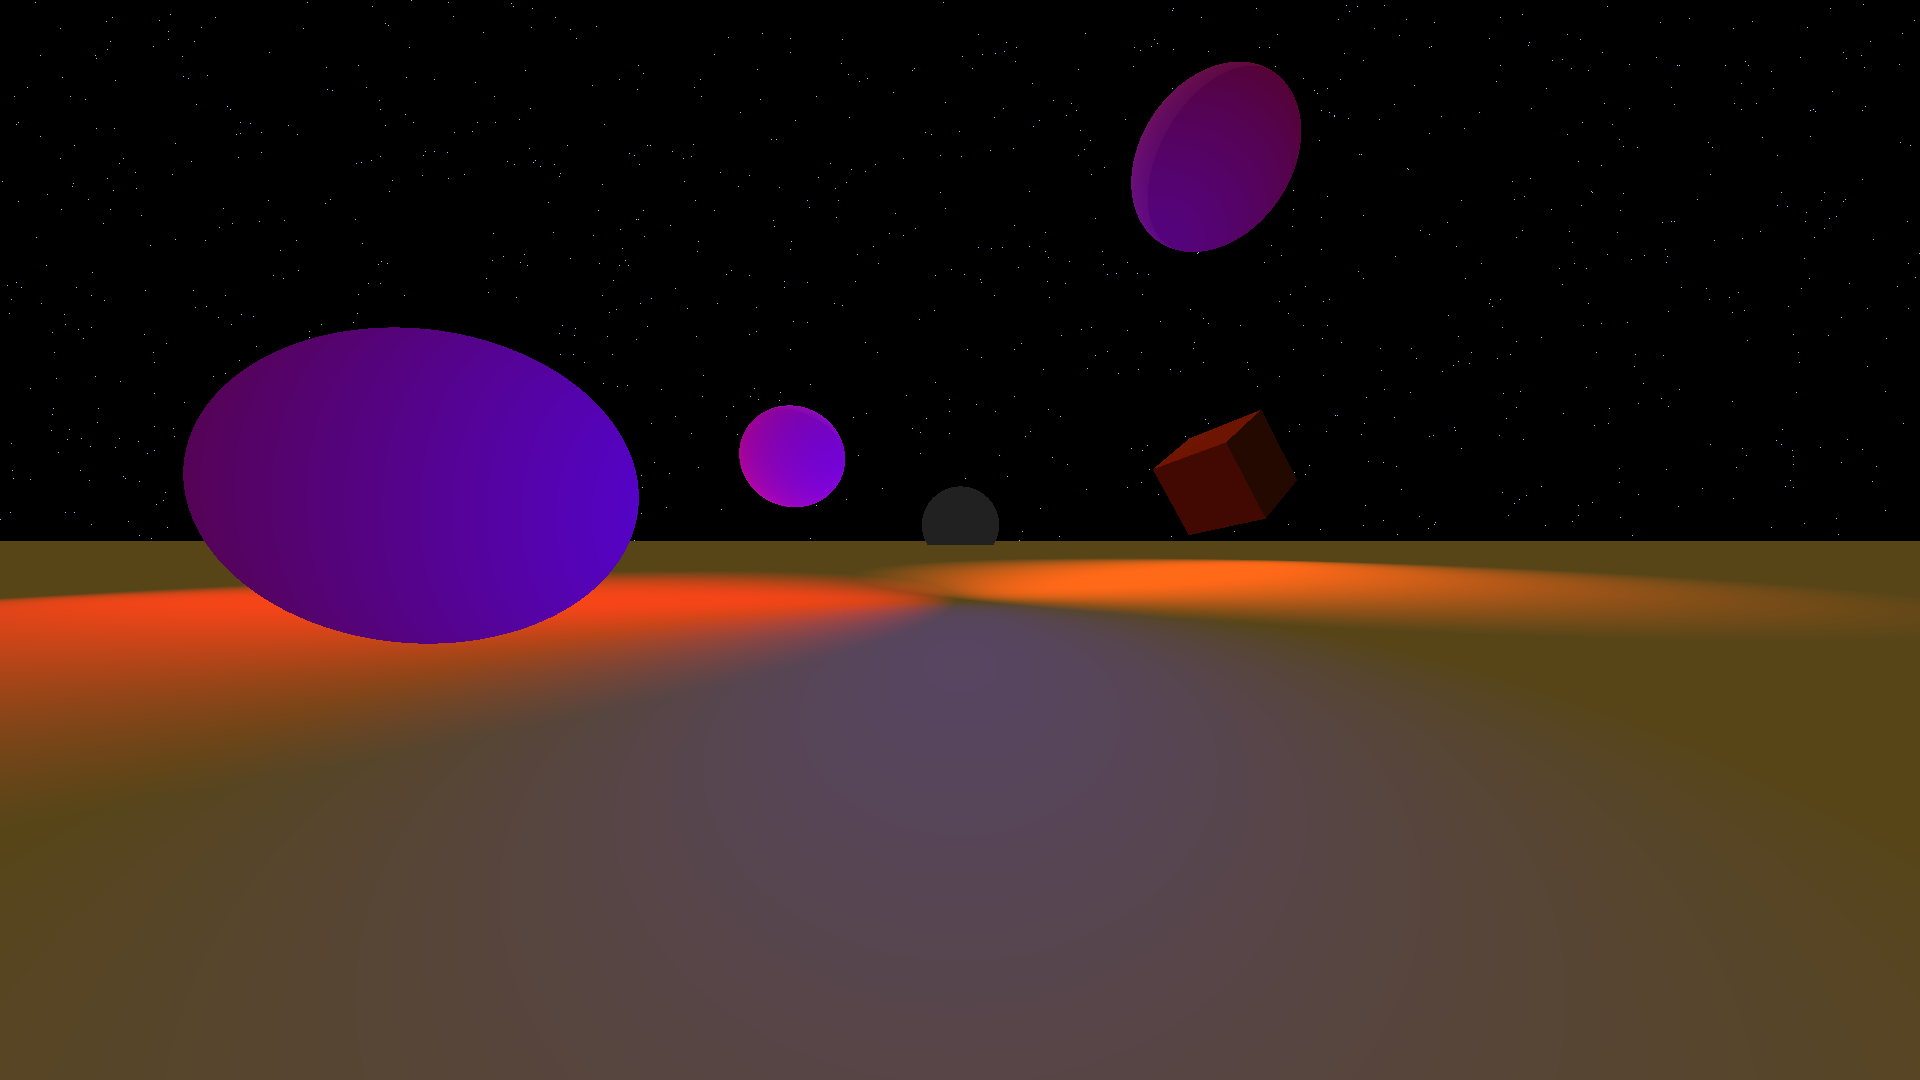
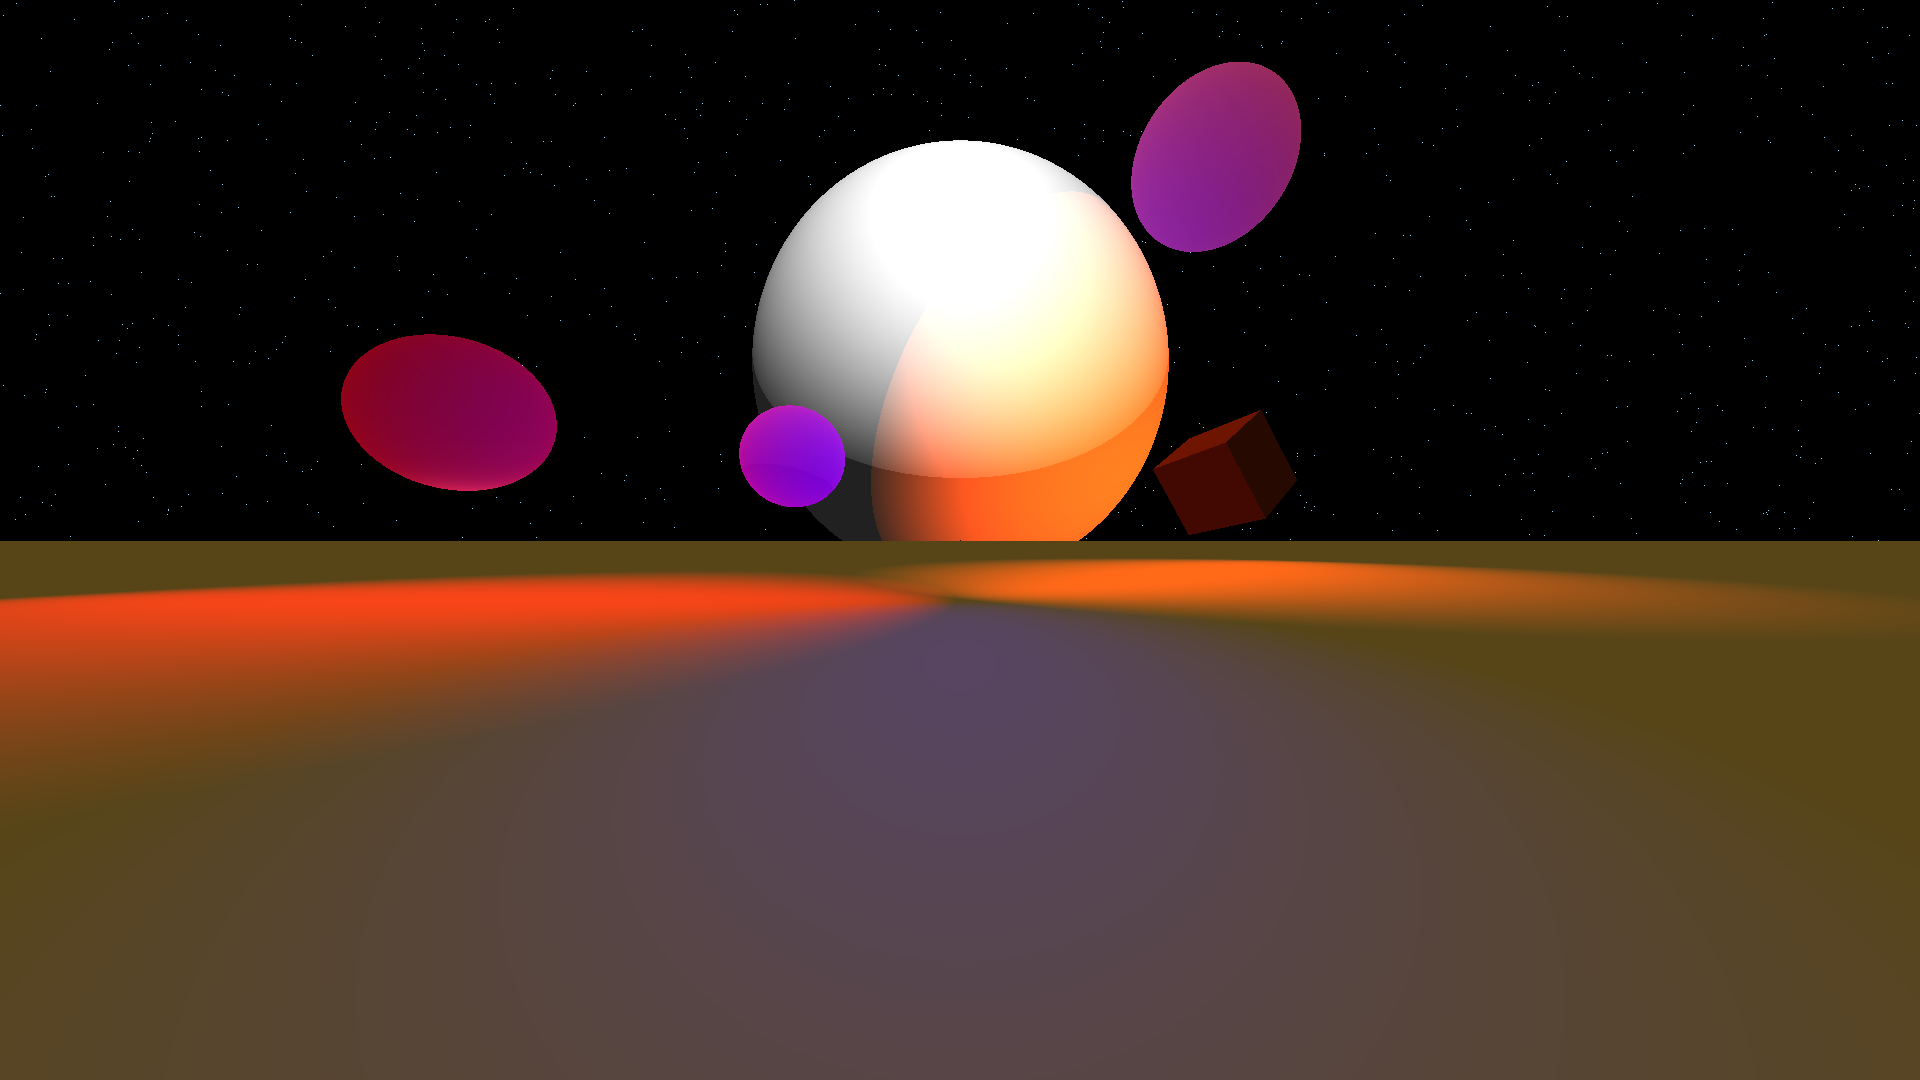
Fixed transformation

Changed region(s): [[0.375, 0.0611, 0.6875, 0.5194], [0.0938, 0.3056, 0.3438, 0.6111]]

diff --git a/src/main/Renderer.java b/src/main/Renderer.java
@@ -70,8 +70,12 @@ public class Renderer {
                 //Vector dir = new Vector(-focallength, w * (y * c - 1), h * (z * r - 1), 0);
                 //Vector dir = new Vector(-focallength, (w - screenWidth) * (y * c / cmax), (h - screenHeight) * (z * r / rmax), 0);
 
+                // create rays
+                // create normalized ray
+                Vector normalizedDir = new Vector(Utility.normalize(dir.getCoords()));
+                Ray normalizedRay = new Ray(scene.getCamera().location, normalizedDir);
                 // create unnormalized ray
-                Ray ray = new Ray(scene.getCamera().getLocation(), dir);
+                Ray notNormalizedRay = new Ray(scene.getCamera().getLocation(), dir);
 
                 // for every object, cast the ray and find the object nearest to us, that is the object where the collision time (t1) is lowest
                 double minIntersectionTime = Integer.MAX_VALUE;
@@ -79,19 +83,16 @@ public class Renderer {
                 Intersection intersectionHit = null; // the closest intersection and which we will be using later on
 
                 for (Object currentObject : scene.getObjects()) {
+                    Intersection currentIntersection;
+
                     // only use the normalized ray for non-plane objects
-                    if(!(currentObject instanceof Plane)) {
-                        // else, use the normalized ray
-                        // normalize direction
-                        ray.setDir(new Vector(Utility.normalize(dir.getCoords())));
+                    if(currentObject instanceof Plane) {
+                        // object is plane, use the not normalized ray
+                        currentIntersection = currentObject.getFirstHitPoint(notNormalizedRay);
+                    } else {
+                        // object is not a plane, use the normalized ray
+                        currentIntersection = currentObject.getFirstHitPoint(normalizedRay);
                     }
-
-                    Intersection currentIntersection = currentObject.getFirstHitPoint(ray);
-
-                    // now, normalize every ray
-                    // to avoid unnecessary re-normalization, we filter again, but only for Plane
-                    if(currentObject instanceof Plane)
-                        ray.setDir(new Vector(Utility.normalize(dir.getCoords())));
 
                     // we know that if only one hit is present this hit has been set at exit and the time at T2. (btw, if only one hit -> t1 has been set to -1)
                     // if, as normally, two hits are present (one enter and one exit) we know that T1 corresponds to the enter time and t2 to the exit time.
@@ -119,7 +120,10 @@ public class Renderer {
                     // Color: ambient, diffuse, specular
                     double[] rgb = new double[3];
 
-                    getShading(ray, closestObject, intersectionHit, rgb);
+                    if (closestObject instanceof Plane)
+                        getShading(notNormalizedRay, closestObject, intersectionHit, rgb);
+                    else
+                        getShading(normalizedRay, closestObject, intersectionHit, rgb);
 
                     rgb = Arrays.stream(rgb).map(v -> v * 255).toArray();
                     rgb = Arrays.stream(rgb).map(v -> {

diff --git a/src/main/Main.java b/src/main/Main.java
@@ -27,14 +27,14 @@ public class Main {
         */
 
         // scene
-        Vector lightsourceWhite = new Vector(-30, 0, -1000, 1); // location
+        Vector lightsourceWhite = new Vector(-30, 0, -2000, 1); // location
         Vector lightsourceBlue = new Vector(500, 0, -1, 1); // location
         Vector lightsourceRed = new Vector(0, -1000, -10, 1); // location
         Vector lightsourceOrange = new Vector(-1000, 1000, -100, 1); // location
         Vector lightsourcePink = new Vector(-100, -10, -100, 1); // location
 
         Scene scene = new Scene(); // light color
-        scene.addLightsource(lightsourceWhite, new double[]{150, 150, 150});
+        scene.addLightsource(lightsourceWhite, new double[]{155, 155, 155});
         scene.addLightsource(lightsourceBlue, new double[]{0, 0, 255});
         scene.addLightsource(lightsourceRed, new double[]{180, 0, 0});
         scene.addLightsource(lightsourceOrange, new double[]{200, 50, 0});
@@ -46,8 +46,8 @@ public class Main {
 
         Transformation translationSphereRuby = new Translation(200, -100, -50);
         Transformation translationSphereRuby3 = new Translation(300, 100, -150);
-        Transformation translationSphereRuby4 = new Translation(400, -100, -10);
-        Transformation translationSphereChrome = new Translation(-6000, 0, -200);
+        Transformation translationSphereRuby4 = new Translation(300, -200, -50);
+        Transformation translationSphereChrome = new Translation(-800, 0, -400);
         Transformation translationCube = new Translation(120, 200, -50);
         Transformation translationCone = new Translation(0, 0, 0);
         Transformation translationPlane = new Translation(0, 0, 60);
@@ -55,7 +55,7 @@ public class Main {
         Transformation rotateCone = new Rotation().rotateX(180);
         Transformation scaleSphereRuby = new Scale(30, 30, 30);
         Transformation scaleCube = new Scale(30, 30, 30);
-        Transformation scaleCone = new Scale(300, 300, 300);
+        Transformation scaleCone = new Scale(30, 30, 30);
         Transformation scaleSphereChrome = new Scale(500, 500, 500);
 
         // MATERIALS
@@ -71,7 +71,7 @@ public class Main {
         Object sphere4 = new Sphere(ruby);
         Object cube = new Cube(copper);
         Object sphere2 = new Sphere(chrome);
-        Object cone = new TaperedCylinder(copper, 1);
+        Object cone = new TaperedCylinder(copper, 0.5);
 
         plane.addTransformation(translationPlane);
 
